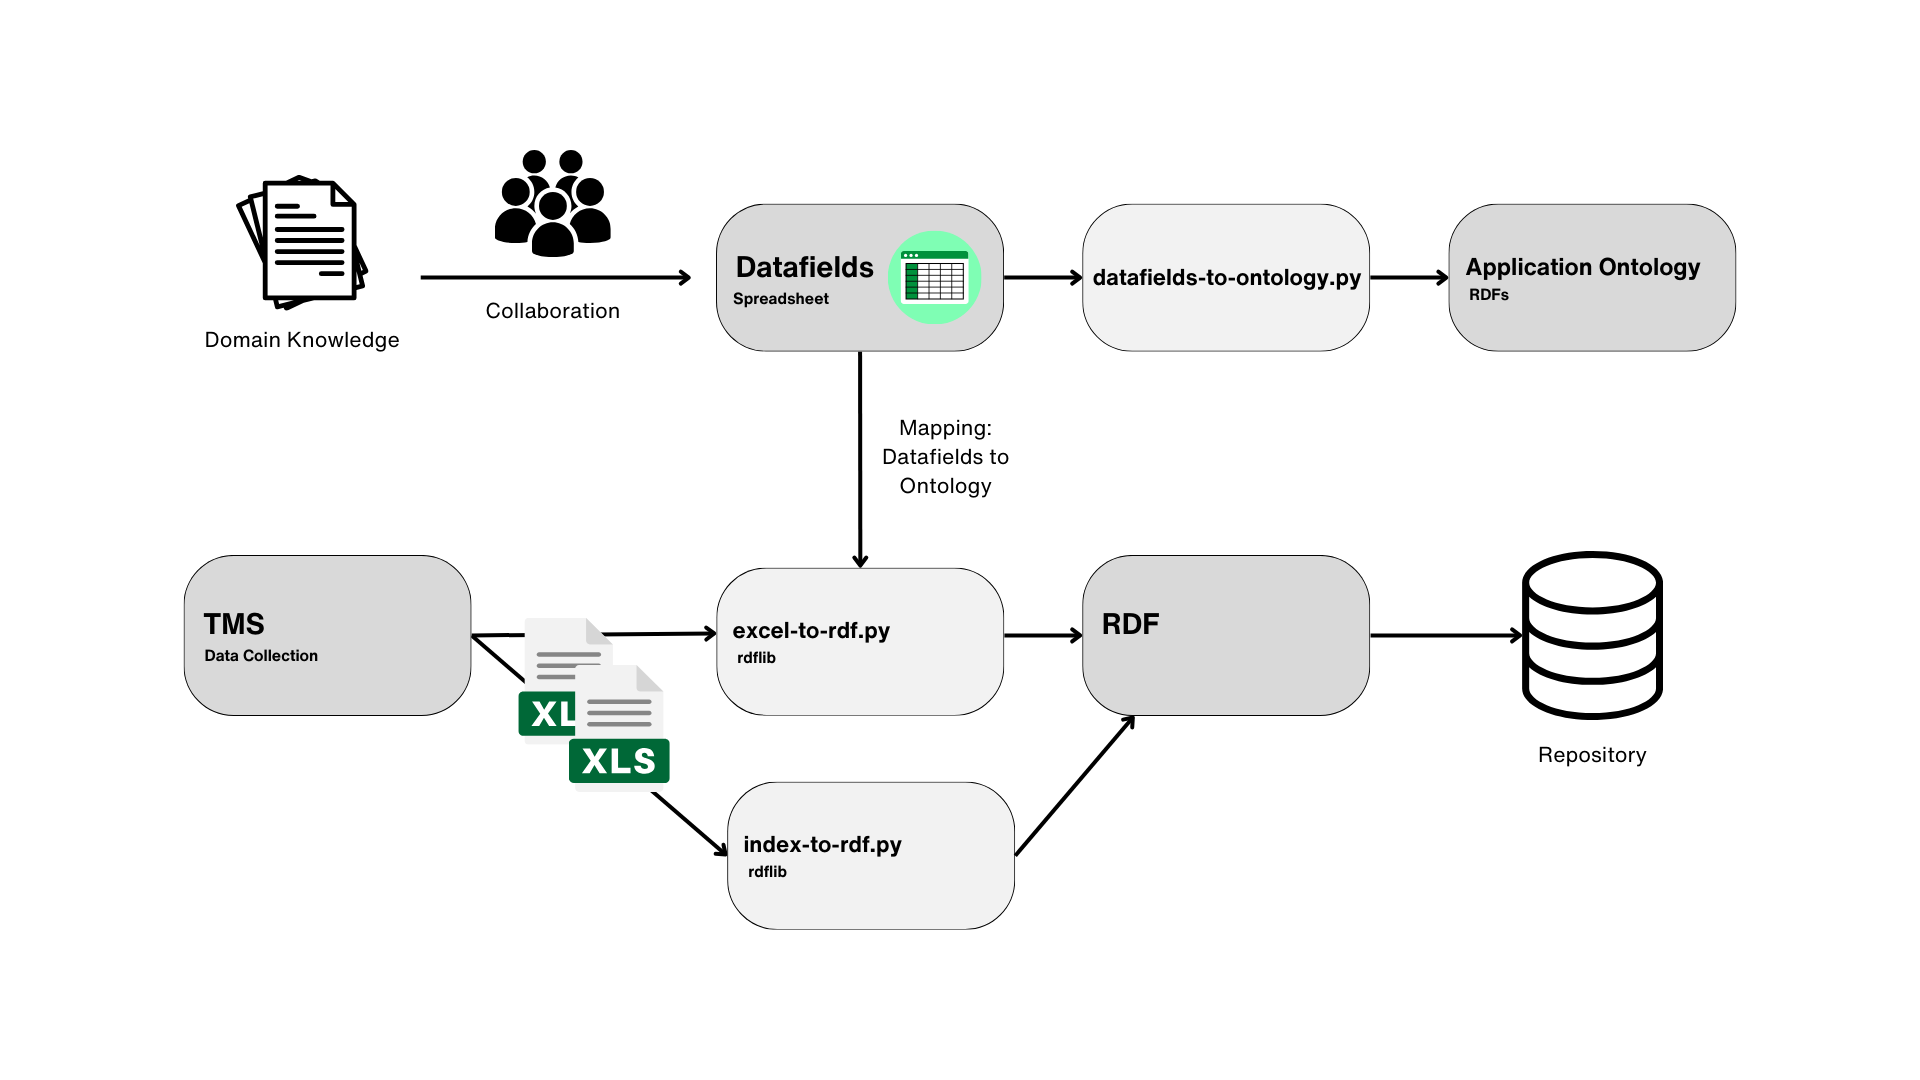
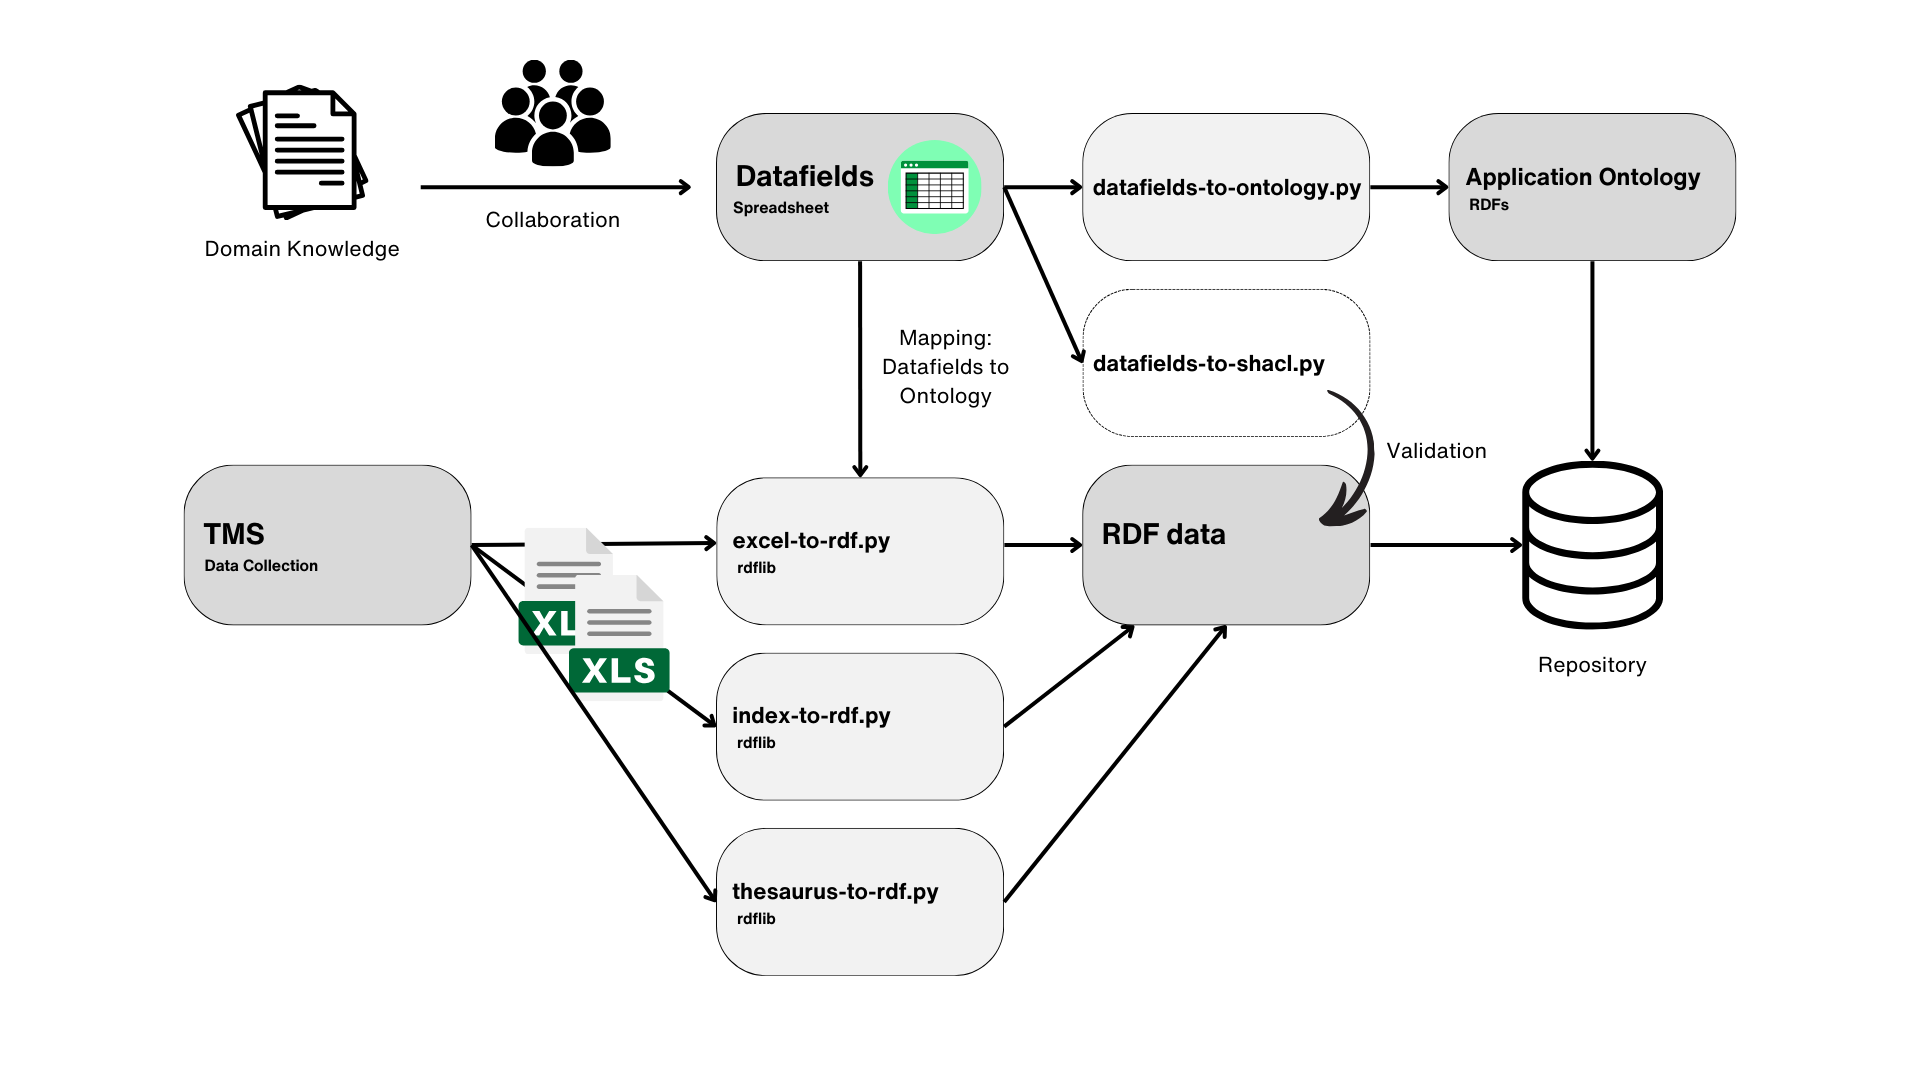
update

diff --git a/README.md b/README.md
@@ -68,6 +68,10 @@ A crucial element of the workflow is the mapping of TMS data fields, especially 
 
 Another script, **datafields-to-ontology.py**, extracts mappings from the datafields spreadsheet. This process likely involves insights from domain experts to develop the complete RDF data model. This specific, lightweight **application ontology** is crucial for organizing the RDF data for the CROWN project. Furthermore, it defines how to link to additional ontologies like CIDOC-CRM, helping to ensure the project aligns with broader cultural heritage documentation standards.
 
+Finally the **thesaurus-to-rdf.py script** creates the SKOS concepts that are needed.
+
+What could also be implemented at this point is validation by SHACL, i.e. mapping SHACL constraints from the Excel data fields to implement a validation mechanism for RDF generation. However, this was not part of the funded project.
+
 The RDF data and the application ontology together describe all the information about the CROWN project, or any other project represented in TMS. This data can be used directly in a triple store, or archived and published in a research data **repository**.
 
 ## TMS and Export
